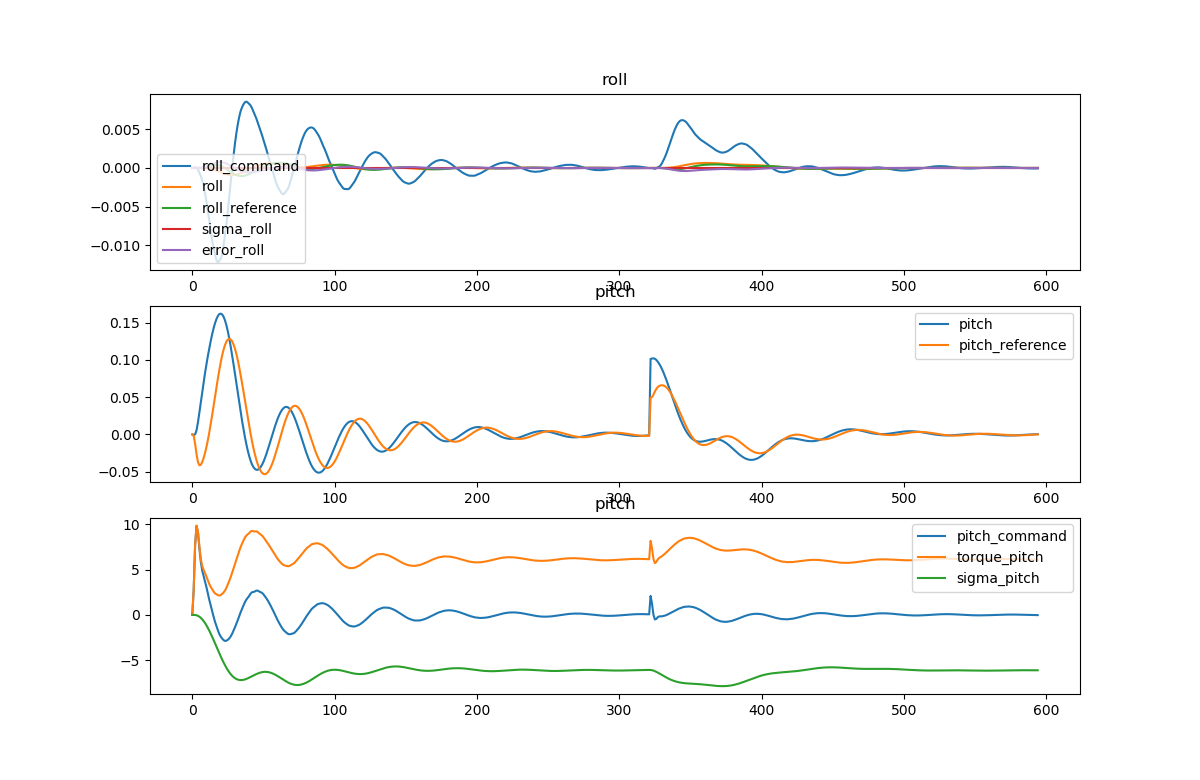
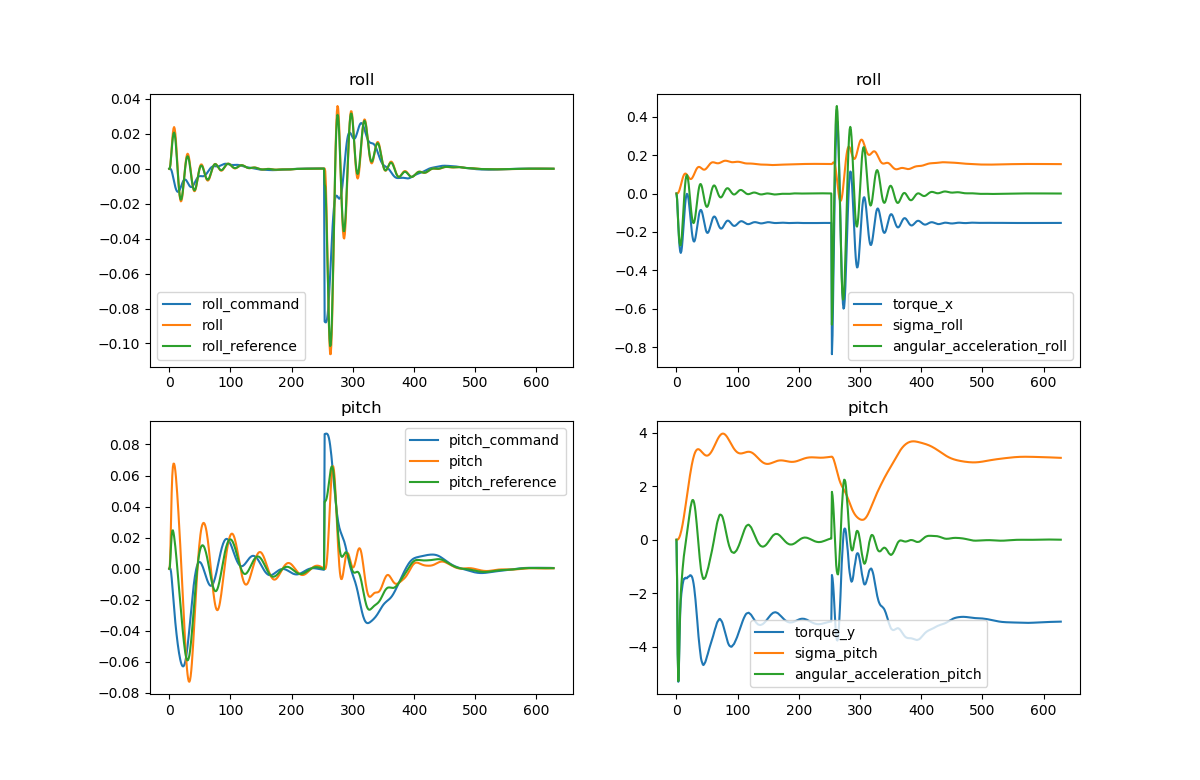
Add matplotlib cpp

diff --git a/src/neural_adaptive_controller/neural_adaptive_controller.cpp b/src/neural_adaptive_controller/neural_adaptive_controller.cpp
@@ -20,8 +20,7 @@ namespace neural_adaptive_controller
           angular_velocity_pred_(Eigen::Vector3d::Zero()),
           last_LPF_(Eigen::Vector3d::Zero()),
           last_angle_error_(Eigen::Vector3d::Zero()),
-          R_ref_(Eigen::Matrix3d::Identity()),
-          last_angle_ref_(Eigen::Vector3d::Zero())
+          R_ref_(Eigen::Matrix3d::Identity())
     {
         InitializeParams();
 
@@ -50,27 +49,31 @@ namespace neural_adaptive_controller
     {
         plt::figure_size(1200, 780);
 
-        plt::subplot(3, 1, 1);
+        plt::subplot(2, 2, 1);
         plt::named_plot("roll_command", roll_command_);
         plt::named_plot("roll", roll_);
         plt::named_plot("roll_reference", roll_ref_);
-        // plt::named_plot("torque_roll", torque_roll_);
-        // plt::named_plot("angular_acceleration_roll", angular_acceleration_roll_);
-        plt::named_plot("sigma_roll", sigma_roll_);
-        plt::named_plot("error_roll", error_roll_);
         plt::title("roll");
         plt::legend();
 
-        plt::subplot(3, 1, 2);
+        plt::subplot(2, 2, 2);
+        plt::named_plot("torque_x", torque_x_);
+        plt::named_plot("sigma_roll", sigma_roll_);
+        plt::named_plot("angular_acceleration_roll", angular_acceleration_roll_);
+        plt::title("roll");
+        plt::legend();
+
+        plt::subplot(2, 2, 3);
+        plt::named_plot("pitch_command", pitch_command_);
         plt::named_plot("pitch", pitch_);
         plt::named_plot("pitch_reference", pitch_ref_);
         plt::title("pitch");
         plt::legend();
 
-        plt::subplot(3, 1, 3);
-        plt::named_plot("pitch_command", pitch_command_);
-        plt::named_plot("torque_pitch", torque_pitch_);
+        plt::subplot(2, 2, 4);
+        plt::named_plot("torque_y", torque_y_);
         plt::named_plot("sigma_pitch", sigma_pitch_);
+        plt::named_plot("angular_acceleration_pitch", angular_acceleration_pitch_);
         plt::title("pitch");
         plt::legend();
 
@@ -154,11 +157,11 @@ namespace neural_adaptive_controller
         roll_command_.clear();
         roll_.clear();
         roll_ref_.clear();
-        torque_roll_.clear();
+        torque_x_.clear();
         pitch_command_.clear();
         pitch_.clear();
         pitch_ref_.clear();
-        torque_pitch_.clear();
+        torque_y_.clear();
         angular_acceleration_roll_.clear();
         angular_acceleration_pitch_.clear();
         sigma_roll_.clear();
@@ -325,8 +328,8 @@ namespace neural_adaptive_controller
         *rotor_velocities = rotor_velocities->cwiseMax(Eigen::VectorXd::Zero(rotor_velocities->rows()));
         *rotor_velocities = rotor_velocities->cwiseSqrt();
 
-        torque_roll_.push_back(angular_thrust(0));
-        torque_pitch_.push_back(angular_thrust(1));
+        torque_x_.push_back(angular_thrust(0));
+        torque_y_.push_back(angular_thrust(1));
 
         angular_acceleration_roll_.push_back(angular_acceleration(0));
         angular_acceleration_pitch_.push_back(angular_acceleration(1));
@@ -336,9 +339,6 @@ namespace neural_adaptive_controller
 
         error_roll_.push_back(angle_error(0));
         error_pitch_.push_back(angle_error(1));
-
-        roll_command_.push_back(angular_acceleration(0));
-        pitch_command_.push_back(angular_acceleration(1));
 
         predReferenceOutput(angular_acceleration + sigma, R_des, &R_ref_);
     }
@@ -395,12 +395,6 @@ namespace neural_adaptive_controller
         Eigen::Vector3d angular_rate_error = odometry_.angular_velocity - R_des->transpose() * R * angular_rate_des;
 
         *angular_acceleration = -1 * angle_error.cwiseProduct(normalized_attitude_gain_) - angular_rate_error.cwiseProduct(normalized_angular_rate_gain_) + odometry_.angular_velocity.cross(odometry_.angular_velocity);
-
-        Eigen::Vector3d angle_des;
-        mav_msgs::vectorFromRotationMatrix(*R_des, &angle_des);
-
-        // roll_command_.push_back(angle_des(0));
-        // pitch_command_.push_back(angle_des(1));
     }
 
     void NeuralAdaptiveController::adaptation(const Eigen::Vector3d &angle_error, Eigen::Vector3d *sigma)
@@ -435,17 +429,23 @@ namespace neural_adaptive_controller
         Eigen::Vector3d angle_des;
         mav_msgs::vectorFromRotationMatrix(R_des, &angle_des);
 
-        roll_.push_back(angle_des(0));
-        pitch_.push_back(angle_des(1));
+        Eigen::Vector3d angle;
+        mav_msgs::vectorFromRotationMatrix(R, &angle);
+
+        roll_.push_back(angle(0));
+        pitch_.push_back(angle(1));
+
+        roll_command_.push_back(angle_des(0));
+        pitch_command_.push_back(angle_des(1));
 
         Eigen::Matrix3d angle_error_matrix = 0.5 * (R_des.transpose() * R - R.transpose() * R_des);
         Eigen::Vector3d angle_error;
         vectorFromSkewMatrix(angle_error_matrix, &angle_error);
 
         Eigen::Matrix3d A_ref;
-        A_ref << -5.0, 0.0, 0.0,
+        A_ref << -1.0, 0.0, 0.0,
             0.0, -5.0, 0.0,
-            0.0, 0.0, -5.0;
+            0.0, 0.0, 0.0;
 
         Eigen::Vector3d angle_ref;
         angle_ref = angle_des + 1.0 * (Eigen::Matrix3d::Identity() + A_ref * dt) * angle_error;

diff --git a/include/neural_adaptive_controller/neural_adaptive_controller.h b/include/neural_adaptive_controller/neural_adaptive_controller.h
@@ -31,7 +31,7 @@ namespace neural_adaptive_controller
     static const Eigen::Vector3d kDefaultAttitudeGain = Eigen::Vector3d(3, 3, 0.035);
     static const Eigen::Vector3d kDefaultAngularRateGain = Eigen::Vector3d(0.52, 0.52, 0.025);
 
-    static const Eigen::Vector3d kDefaultSigmaAbs = Eigen::Vector3d(0.0, 0.30, 0.0);
+    static const Eigen::Vector3d kDefaultSigmaAbs = Eigen::Vector3d(0.10, 0.30, 0.0);
 
     class NeuralAdaptiveControllerParameters
     {
@@ -104,7 +104,7 @@ namespace neural_adaptive_controller
 
         Eigen::Vector3d angular_velocity_pred_;
         Eigen::Vector3d last_LPF_;
-        Eigen::Vector3d last_angle_error_, last_angle_ref_;
+        Eigen::Vector3d last_angle_error_;
         Eigen::Matrix3d R_ref_;
 
         mav_msgs::EigenTrajectoryPoint command_trajectory_;
@@ -113,7 +113,7 @@ namespace neural_adaptive_controller
         std::vector<float> pitch_command_, roll_command_;
         std::vector<float> pitch_, roll_;
         std::vector<float> pitch_ref_, roll_ref_;
-        std::vector<float> torque_roll_, torque_pitch_;
+        std::vector<float> torque_x_, torque_y_;
         std::vector<float> angular_acceleration_roll_, angular_acceleration_pitch_;
         std::vector<float> sigma_roll_, sigma_pitch_;
         std::vector<float> error_roll_, error_pitch_;
